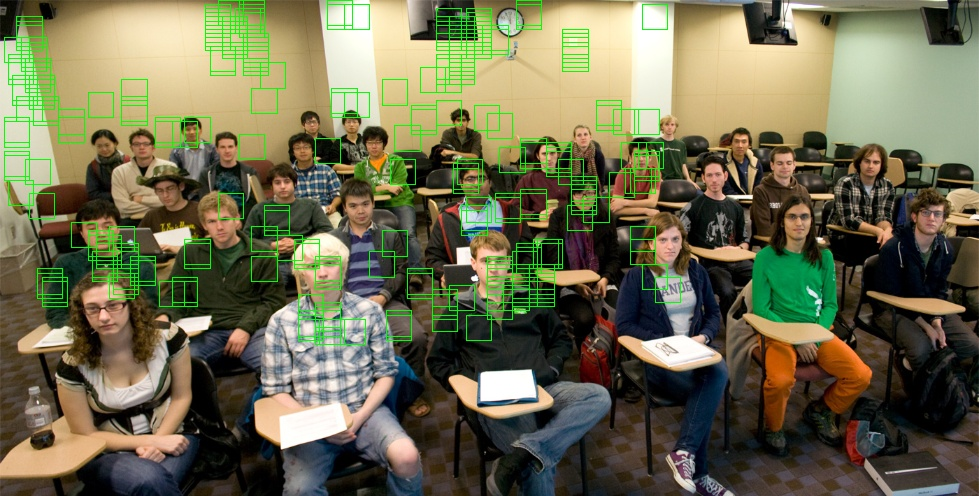
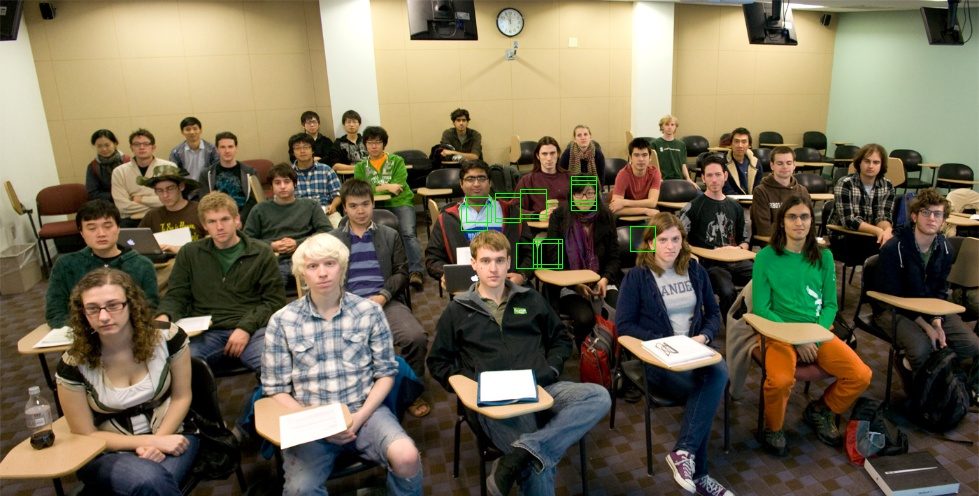
update

diff --git a/proj4/code/python/main.py b/proj4/code/python/main.py
@@ -18,21 +18,13 @@ def init_hog_svm():
     
     print("init starting .....")
     winSize = (36,36)
-    # 一个窗口（win）的大小是64x128
     blockSize = (36,36) 
-    # 每个块的大小是16x16
     blockStride = (3,3) 
-    # 每个块的步长是8x8
-    # 一个窗口有((64-16)/8+1)*((128-16)/8+1) = 7*15 = 105个块（block）
     cellSize = (3,3)
-    # 每个胞元的大小是8x8
-    # 一个块（block）有 (16/8)*(16/8) = 4胞元（cell）
     nBin = 9 
 
-    # 第二步：创造一个HOG描述子和检测器
+    # 创造一个HOG描述子和检测器
     hog = cv2.HOGDescriptor(winSize,blockSize,blockStride,cellSize,nBin)
-    # hog = cv2.HOGDescriptor(cellSize=(3,3))
-    # 第三步：启动SVM分离器
 
     print("hog  init finished ....")
     return hog
@@ -89,9 +81,9 @@ def overlaps(a, b, thresh=0.5):
   y1 = np.maximum(a[1], b[1])
   y2 = np.minimum(a[3], b[3])
   intersect = float(area([x1, y1, x2, y2]))
-  return intersect / 6400 >= thresh
+  return intersect / 512 >= thresh
 
-# Malisiewicz et al.
+
 def non_max_suppression_fast(boxes, overlapThresh = 0.5):
   # if there are no boxes, return an empty list
   if len(boxes) == 0:
@@ -104,13 +96,12 @@ def non_max_suppression_fast(boxes, overlapThresh = 0.5):
     box = score_idx[0]
     for s in score_idx:
       if s == score_idx[0]:
-        #j=j+1
         continue
       if (overlaps(boxes[s], boxes[box], overlapThresh)):
         to_delete.append(s)
         a = np.where(score_idx == s)
         score_idx = np.delete(score_idx,a)
-      #j=j+1
+
     score_idx = np.delete(score_idx,0)
   boxes = np.delete(boxes,to_delete,axis=0)
   return boxes
@@ -121,35 +112,36 @@ def sliding_window(image, stepSize, windowSize):
             yield (x, y, image[y:y + windowSize[1], x:x + windowSize[0]])#哪个维度超纲，哪个维度就显示原图
 
 def main(i):
-    hog =init_hog_svm()
-
-    _,positive_features = get_positive_feature(train_path_pos,hog)
-    _ , negative_features = get_negative_features(non_face_scn_path,hog)
-
-    # 正负样本不均匀
-    for _ in range(int(len(positive_features)/len(negative_features))):
-        _,temp=get_negative_features(non_face_scn_path,hog)
-        negative_features.extend(temp)
-
-    print("positive_features:",positive_features[0].shape,len(positive_features))
-    print("negative_features:",negative_features[0].shape,len(negative_features),"\n")
-
-    # 生成数据以及标签
-    print("starting generate the data and label ....")
-    label=[]
-    for _ in range(len(positive_features)):
-        label.append(1)
-    for _ in range(len(negative_features)):
-        label.append(-1)
-    for features in negative_features:
-        positive_features.append(features)
-
-    trainset=np.array(positive_features)
-    trainset=trainset.reshape(trainset.shape[0],trainset.shape[1])
-    print("finished generate the data && label ...... \n")
-
-
     if not os.path.exists("train_model.m"):
+        hog =init_hog_svm()
+
+        _,positive_features = get_positive_feature(train_path_pos,hog)
+        _ , negative_features = get_negative_features(non_face_scn_path,hog)
+
+        # 正负样本不均匀
+        for _ in range(int(len(positive_features)/len(negative_features))):
+            _,temp=get_negative_features(non_face_scn_path,hog)
+            negative_features.extend(temp)
+
+        print("positive_features:",positive_features[0].shape,len(positive_features))
+        print("negative_features:",negative_features[0].shape,len(negative_features),"\n")
+
+        # 生成数据以及标签
+        print("starting generate the data and label ....")
+        label=[]
+        for _ in range(len(positive_features)):
+            label.append(1)
+        for _ in range(len(negative_features)):
+            label.append(-1)
+        for features in negative_features:
+            positive_features.append(features)
+
+        trainset=np.array(positive_features)
+        trainset=trainset.reshape(trainset.shape[0],trainset.shape[1])
+        print("finished generate the data && label ...... \n")
+
+
+    
     # if True:
         print("train model && save it .....\n")
         clr=svm.SVC(decision_function_shape='ovo',probability=True)
@@ -166,7 +158,7 @@ def main(i):
     print("starting test the model ..... ")
     count=0
     negat=0
-    scale = 0.7
+    scale = 1
     rectangles=[]
     image_name="cs143_2011_class_easy"
     test_image=cv2.imread("../../data/extra_test_scenes/"+image_name+".jpg")
@@ -175,7 +167,7 @@ def main(i):
     if not os.path.exists(image_name+"_windows_scale_%f.npy"%(scale)):
     # if True:
         print("creating the windows data .....\n")
-        for (x, y, roi) in sliding_window(test_image, 6, (36, 36)):#对得到的图进行滑动窗口，(100, 40)为窗口大小，本文应取(64, 64)
+        for (x, y, roi) in sliding_window(test_image, 6, (36, 36)):
             if roi.shape[1] != 36 or roi.shape[0] != 36:         #判断是否超纲
                 continue
             gray = cv2.cvtColor(roi, cv2.COLOR_BGR2GRAY)
@@ -204,7 +196,9 @@ def main(i):
     else:
         print("load existing windows file .....\n")
         windows=np.load(image_name+"_windows_scale_%f.npy"%(scale))
-    # windows = non_max_suppression_fast(windows,0.2)
+
+
+    windows = non_max_suppression_fast(windows,0.2)
     # print(len(boxes))
     print("finishing .....")
     for (x, y, x2, y2, score) in windows:

diff --git a/proj1/createSubmissionZip.py b/proj1/createSubmissionZip.py
@@ -1,0 +1,85 @@
+ # CSCI 1430 - james_tompkin@brown.edu
+#
+# Students, hark! 
+# Run this script from this directory to create an appropriate zip file to submit to Gradescope.
+
+import os, zipfile
+
+# Function from https://stackoverflow.com/questions/1724693/find-a-file-in-python 
+def find(name, path):
+    for root, dirs, files in os.walk(path):
+        if name in files:
+            return os.path.join(root, name)
+
+
+# Function adapted from https://www.geeksforgeeks.org/working-zip-files-python/
+def get_all_file_paths( directory, ext ): 
+  
+    # Initializing empty file paths list 
+    file_paths = []
+  
+    # Crawling through directory and subdirectories 
+    for root, directories, files in os.walk(directory):
+        for filename in files:
+            if filename.endswith(ext):
+                # Join the two strings in order to form the full filepath. 
+                filepath = os.path.join(root, filename)
+                file_paths.append(filepath) 
+  
+    # Returning all file paths 
+    return file_paths 
+
+
+def main():
+
+    # Files we wish to include
+    # - Everything in 'code'
+    # - writeup/writeup.pdf
+
+    # Some of you will end up in a pickle and run this 
+    # from the wrong directory.
+    # So, let's work out whether we're in the right directory
+    # to execute, e.g., one below 'code'
+    curdir = os.getcwd()
+    (head, tail) = os.path.split( curdir )
+
+    if tail == 'code' or tail == 'data' or tail == 'questions' or tail == 'writeup':
+        print( 'Executing from the wrong directory; going up a directory...' )
+        os.chdir('..')
+
+    # If we don't find this file (given the expected filename) in the current folder, 
+    # then we are clueless as to where we are.
+    elif find( 'createSubmissionZip.py', curdir ) == None:
+        # We haven't found this file, and 
+        # any other potential place is too complex for us to track
+        print( 'Are you sure you''re executing this script from the right place?' )
+        print( 'Please make sure the python execution folder contains createSubimssionZip.py')
+
+
+    # Compile the writeup report PDF if it doesn't exist
+    writeupFile = 'writeup' + os.sep + 'writeup.pdf'
+    if not os.path.exists( writeupFile ):
+        os.chdir('writeup')
+        command1 = 'pdflatex writeup.tex'
+        command2 = 'bibtex'
+        # LaTeX assured compile sequence if bibtex is used
+        os.system( command1 )
+        os.system( command2 )
+        os.system( command1 )
+        os.system( command1 )
+        os.chdir( '..' )
+
+
+    # Zip the files we need
+    with zipfile.ZipFile( '1430submission.zip', 'w' ) as zip:
+        # Write report
+        if os.path.exists( writeupFile ):
+            zip.write( writeupFile )
+        # Write code .py files
+        for file in get_all_file_paths( "code" + os.sep, ".py" ):
+            zip.write( file )
+
+    # Done!
+
+if __name__ == "__main__":
+    main()

diff --git a/proj3/code/student.py b/proj3/code/student.py
@@ -204,7 +204,7 @@ def get_bags_of_words(image_paths):
         # 生成特征直方图
         im_features = np.zeros((len(image_paths), 200), "float32")
         for i in range(len(image_paths)):
-            words, distance = vq(des_list[i][1], vocab)
+            words, distance = vq(des_list[i][1], vocab)  #分类，最近的聚类中心
             for w in words:
                 im_features[i][w] += 1
 
@@ -238,7 +238,7 @@ def svm_classify(train_image_feats, train_labels, test_image_feats):
     '''
 
     # TODO: Implement this function!
-    clr=svm.SVC(decision_function_shape='ovo')
+    clr=svm.SVC(decision_function_shape='ovr')
     clr.fit(train_image_feats,train_labels)
     result=clr.predict(test_image_feats)
     print(result.shape)
